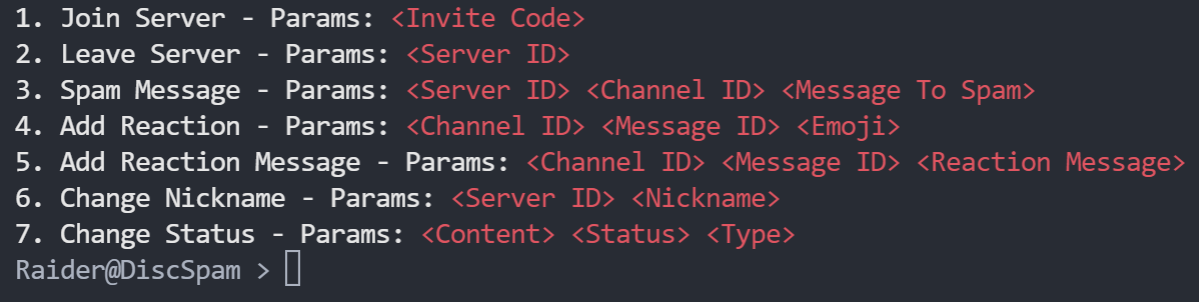
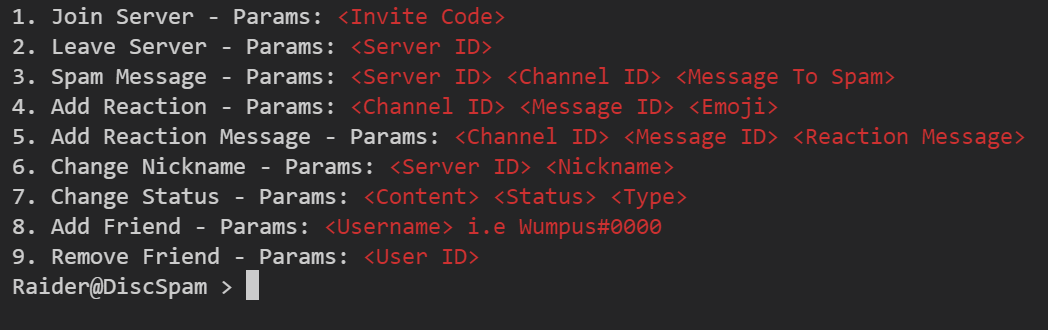
.

diff --git a/README.md b/README.md
@@ -40,22 +40,22 @@ Once you have downloaded the correct version of the program just add all your di
 
 2. Clone the repo
 ```sh
-   git clone https://github.com/Sympthey/DiscSpam.git
+git clone https://github.com/Sympthey/DiscSpam.git
 ```
 
 3. Install Go Modules
 ```sh
-   go install
+go install
 ```
 
 4. Compile Code
 ```sh
-   go build
+go build .
 ```
 
 5. Add Tokens
 ```sh
-   Add the Discord tokens to tokens.txt
+Add the Discord tokens to tokens.txt
 ```
 
 6. Run Program
@@ -70,17 +70,21 @@ Once you have downloaded the correct version of the program just add all your di
 5. Open a Pull Request
 
 ### Roadmap
-1. Add Proxy Support
-2. ~~Add Friend Request Support~~
-3. Voice Chat Spammer
-4. Token Checking Built In
-5. Create And Train Captcha Solver
-6. Support Fake Typing
+- [] Proxy Support
+- [x] Add/Remove Friends
+- [] Voice Chat Support
+- [] Add Nickname Changing
+- [x] Add Ability To Change Status
+- [x] Add Ability To Heartbeat Token
+- [x] Add Support For Colon Emojis `:joy:`
+- [] Token Checker
+- [] Create, Train, Manage Captcha Solving AI
+- [] Allow Fake Typing
+- [] Anti-Kick, Auto Join Back If Kicked
+
 
 These are just some things I am going to be adding to the tool very soon. If you have any ideas feel free to open a [issue](https://github.com/Sympthey/DiscSpam/issues) request and let me know.
     
-
-
 
 ## License
 
